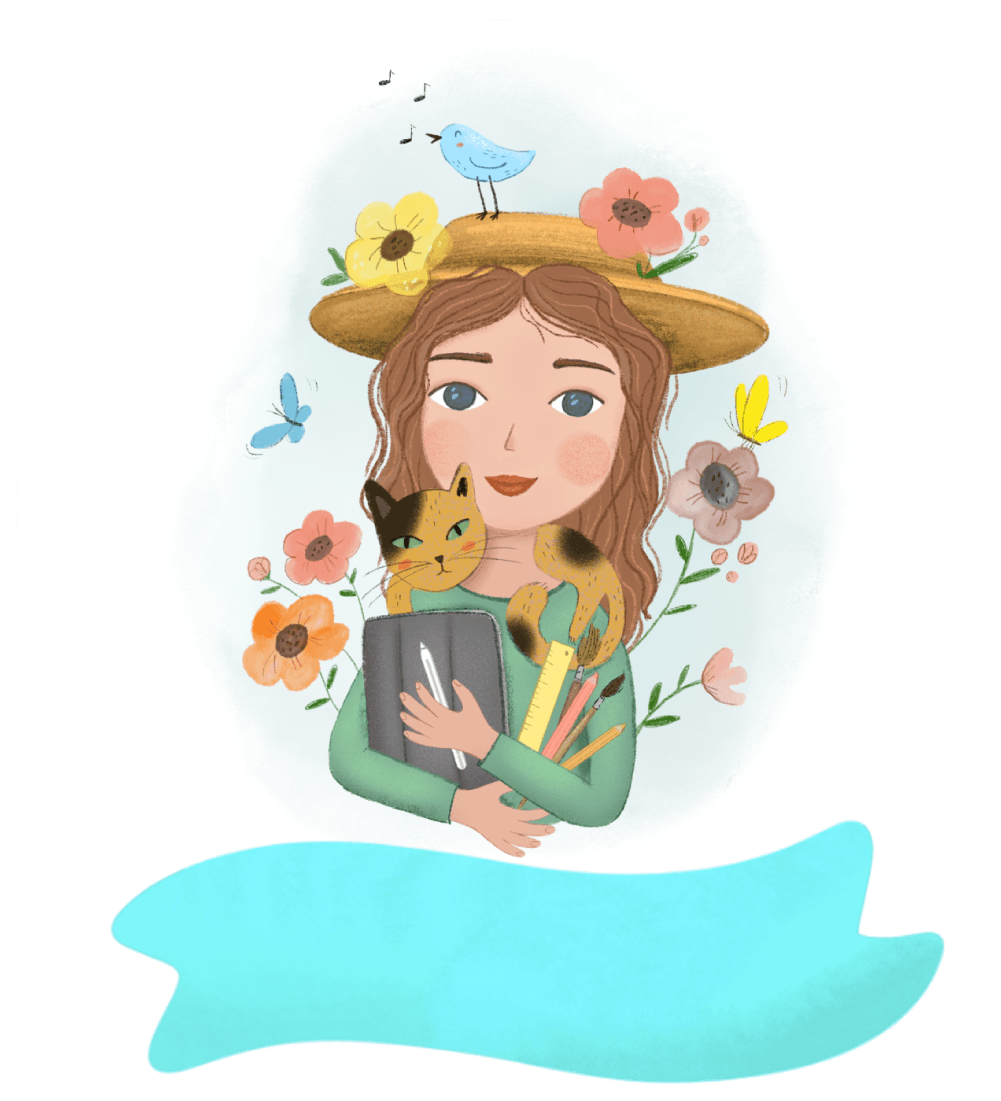
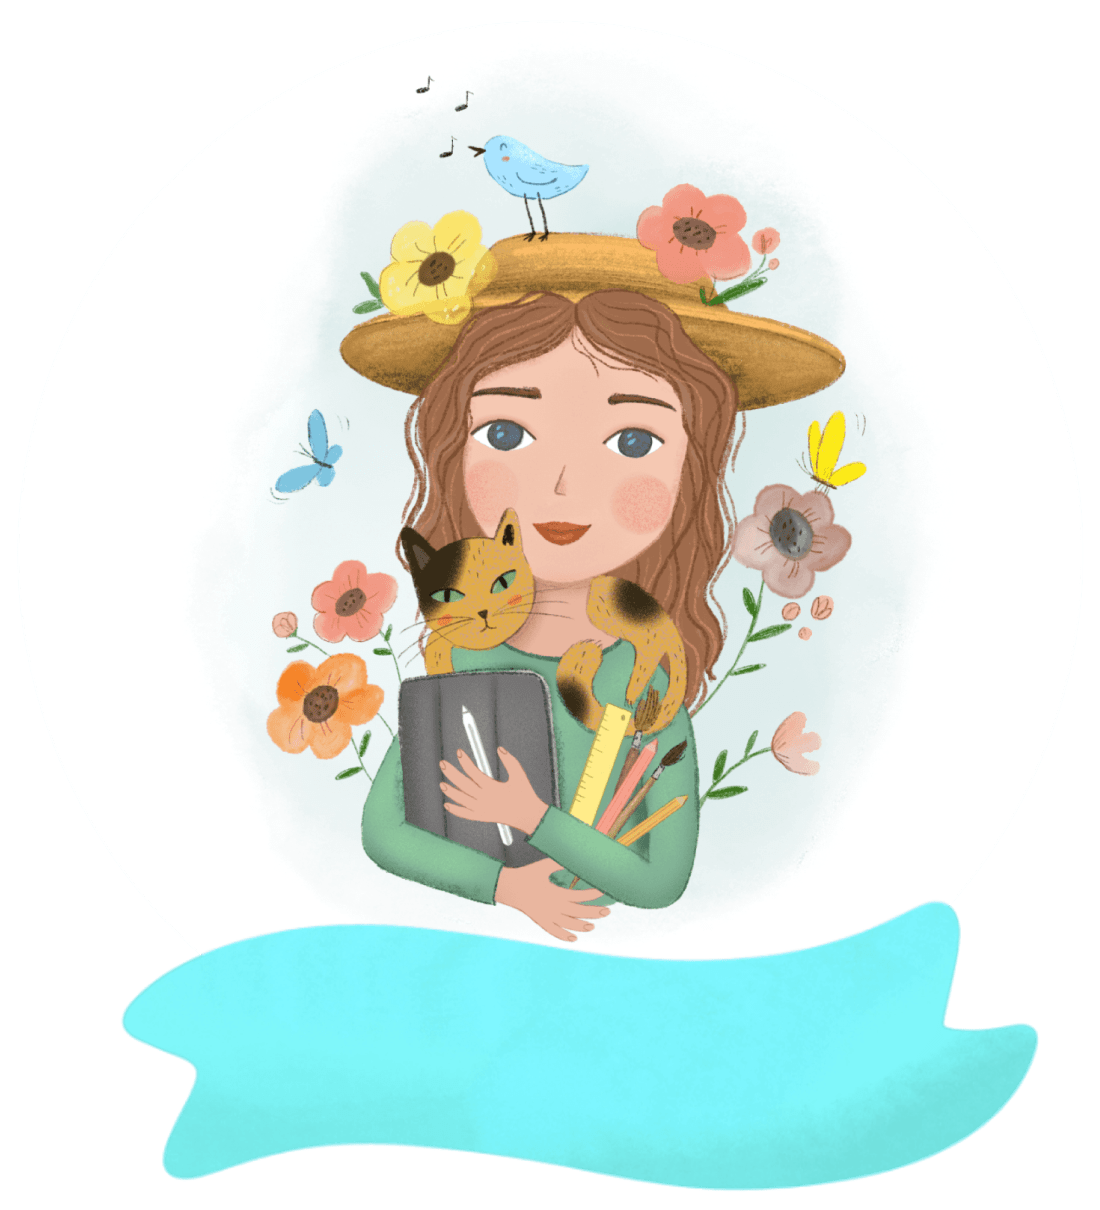
compressed img on main-page body

diff --git a/src/sass/_body-1st-level.scss b/src/sass/_body-1st-level.scss
@@ -11,15 +11,15 @@
   background-repeat: no-repeat;
 
   @media screen and (max-width: 767px) {
-    background-image: url('../images/main-page/img-bcg-mobile@1x.jpg');
+    background-image: url('../images/main-page/img-bcg-mobile@1x.webp');
   }
 
   @media screen and (min-width: 768px) {
-    background-image: url('../images/main-page/img-bcg-tablet@1x.jpg');
+    background-image: url('../images/main-page/img-bcg-tablet@1x.webp');
   }
 
   @media screen and (min-width: 1200px) {
-    background-image: url('../images/main-page/img-bcg-desktop@1x.jpg');
+    background-image: url('../images/main-page/img-bcg-desktop@1x.webp');
   }
 }
 
